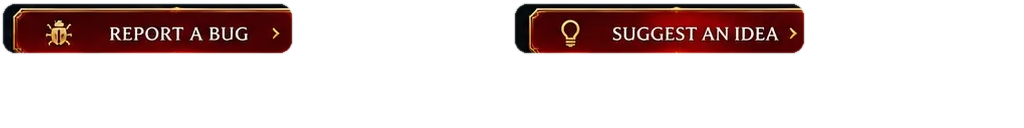
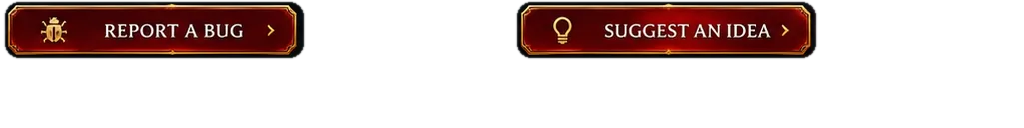
fix(community): restore complete gold borders on both primary action buttons

Changed region(s): [[0.5, 0.0, 0.8125, 0.4688], [0.0, 0.0, 0.3125, 0.4688]]

diff --git a/tools/community/test_community_ui.py b/tools/community/test_community_ui.py
@@ -234,7 +234,11 @@ class CommunityUITests(unittest.TestCase):
         self.assertIn('local btn = Style.Action(hero, heading, "community-art")', community)
         self.assertIn('elseif not communityArt then', style)
         self.assertIn('local communityArt = variant == "community-art"', style)
-        self.assertIn('artTex:SetTexCoord(x / 1024, (x + 295) / 1024, 0, 55 / 128)', community)
+        self.assertIn('artTex:SetTexCoord(x / 1024, (x + 308) / 1024, 0, 60 / 128)', community)
+        self.assertNotIn('(x + 295) / 1024, 0, 55 / 128', community)
+        self.assertIn('btn:SetSize(242, 42)', community)
+        self.assertIn('artTex:SetAllPoints(btn)', community)
+        self.assertIn('local x = kind == "bug" and 0 or 512', community)
         self.assertEqual(community.count('btn:SetScript("OnClick"'), 1)
         self.assertNotIn('local copy = CreateFrame("Button"', community)
         self.assertNotIn('copy:SetScript("OnClick"', community)
